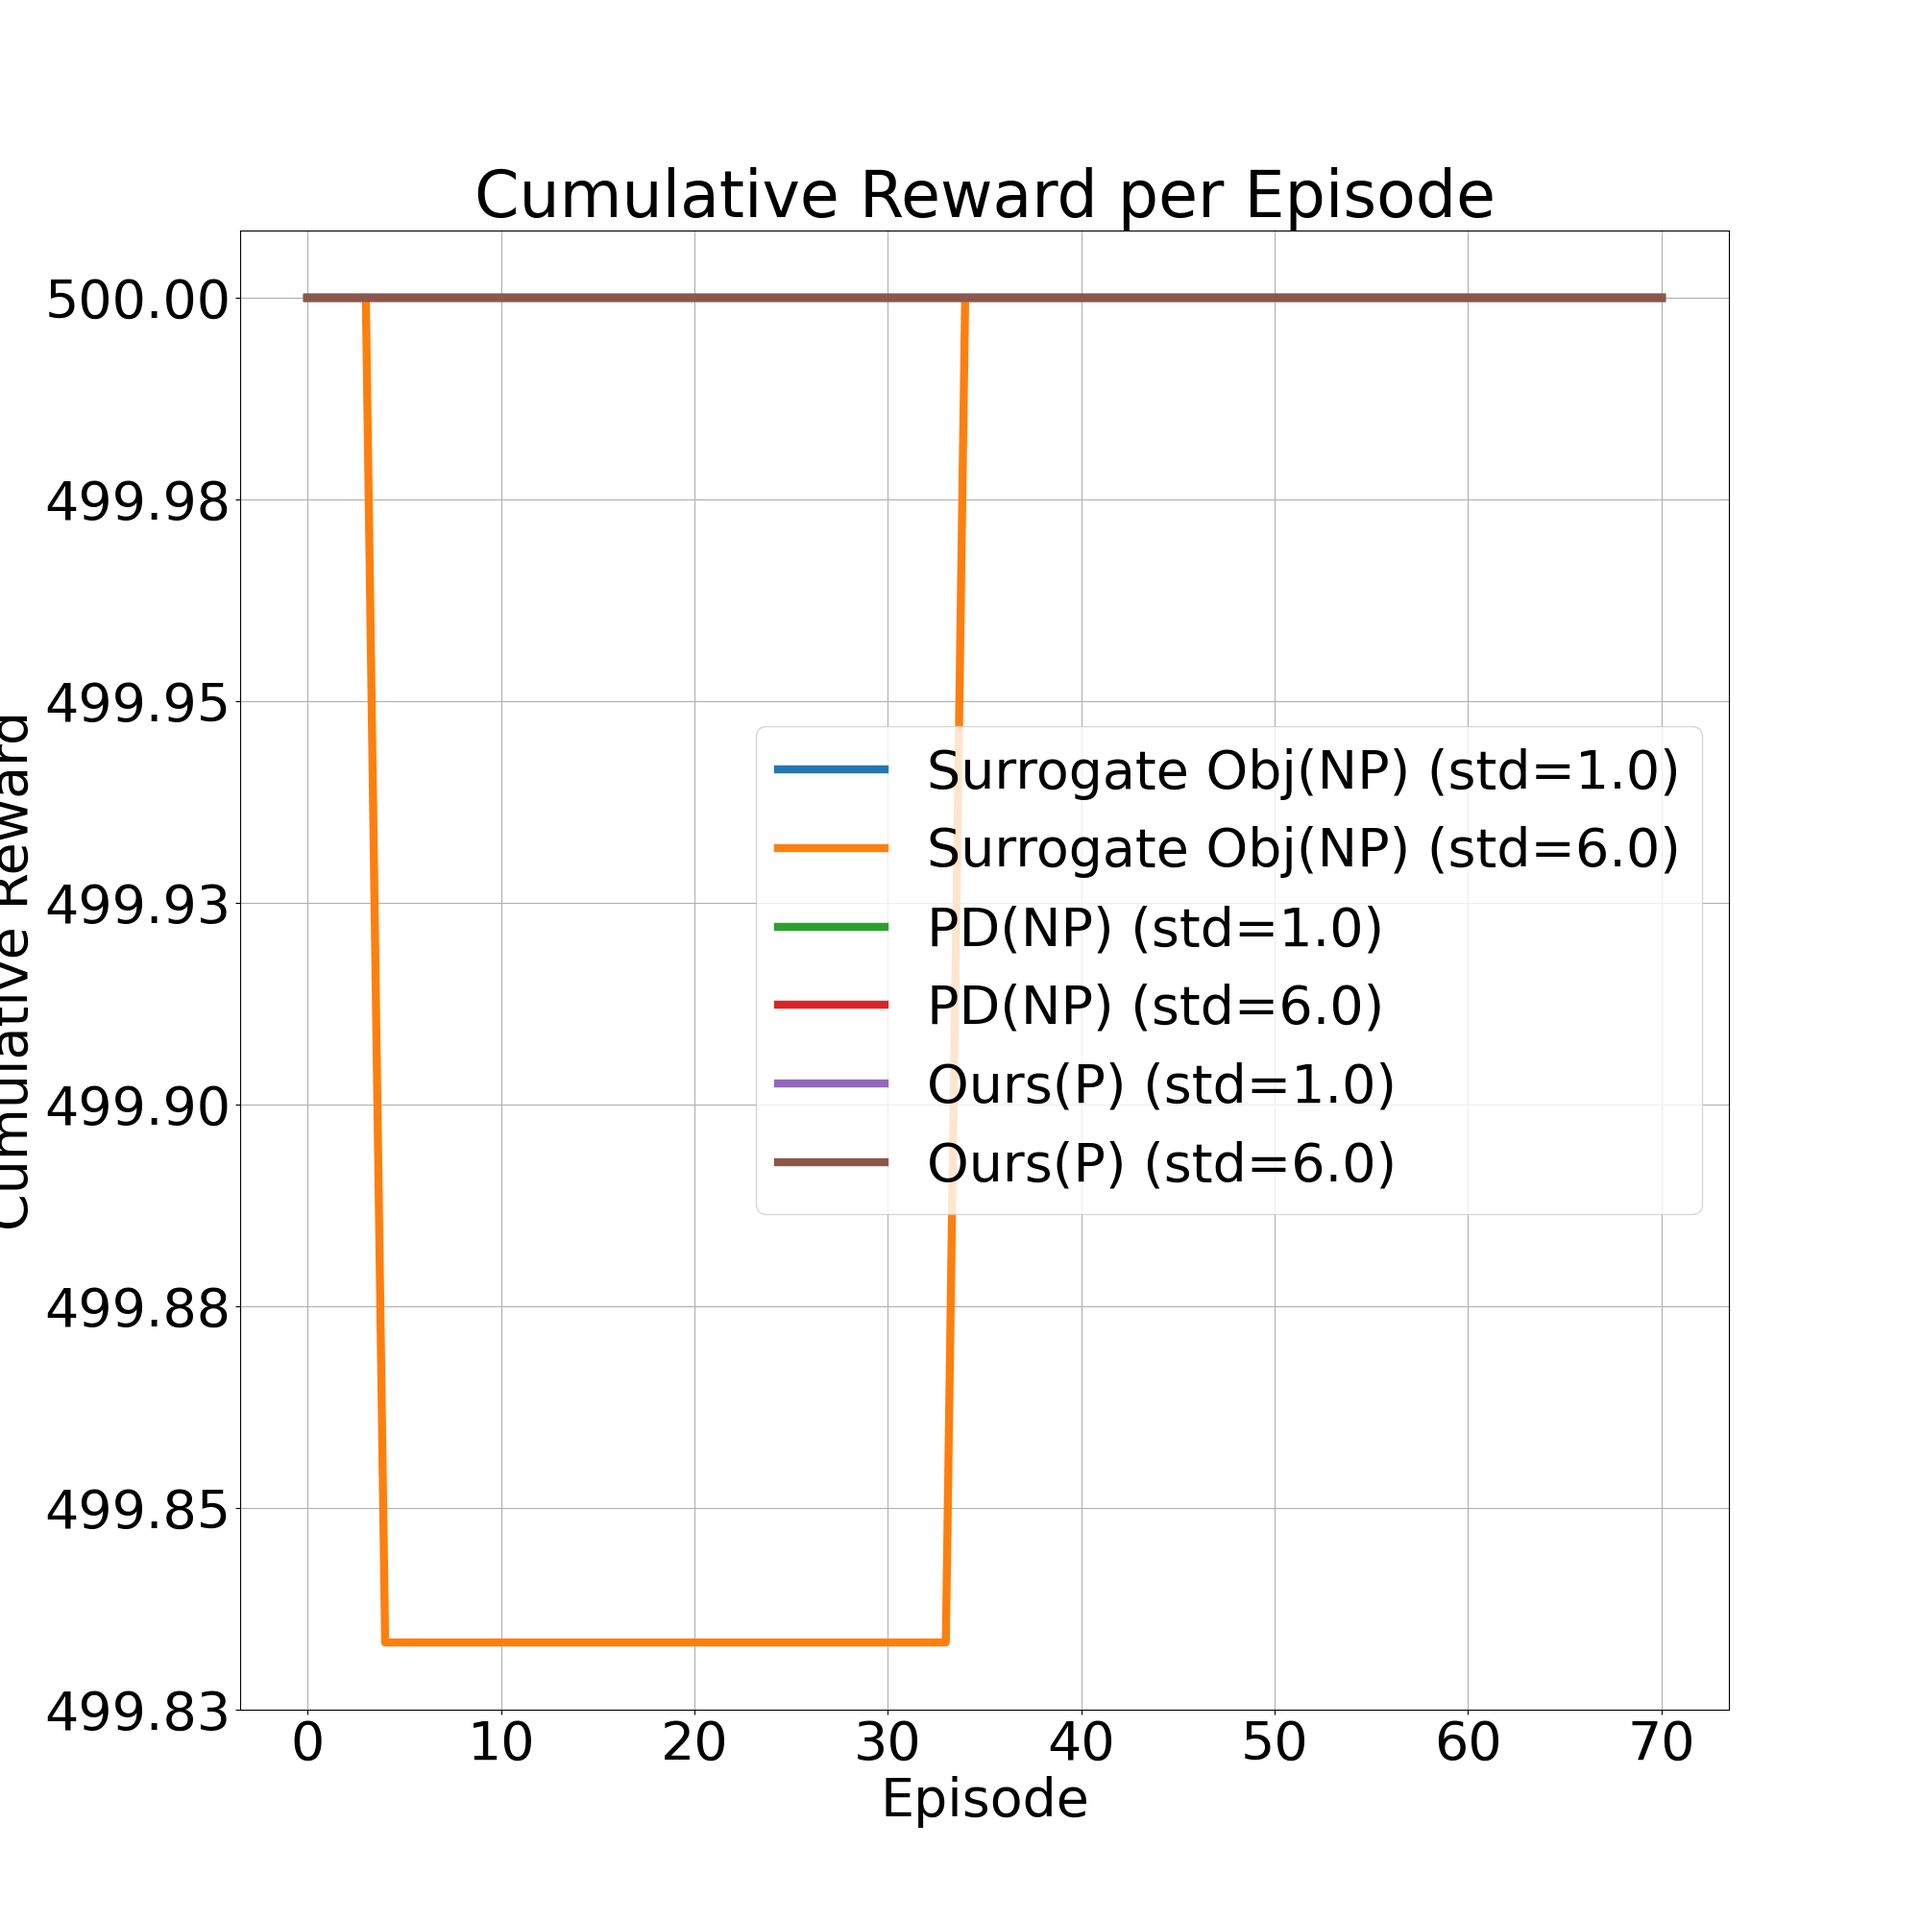
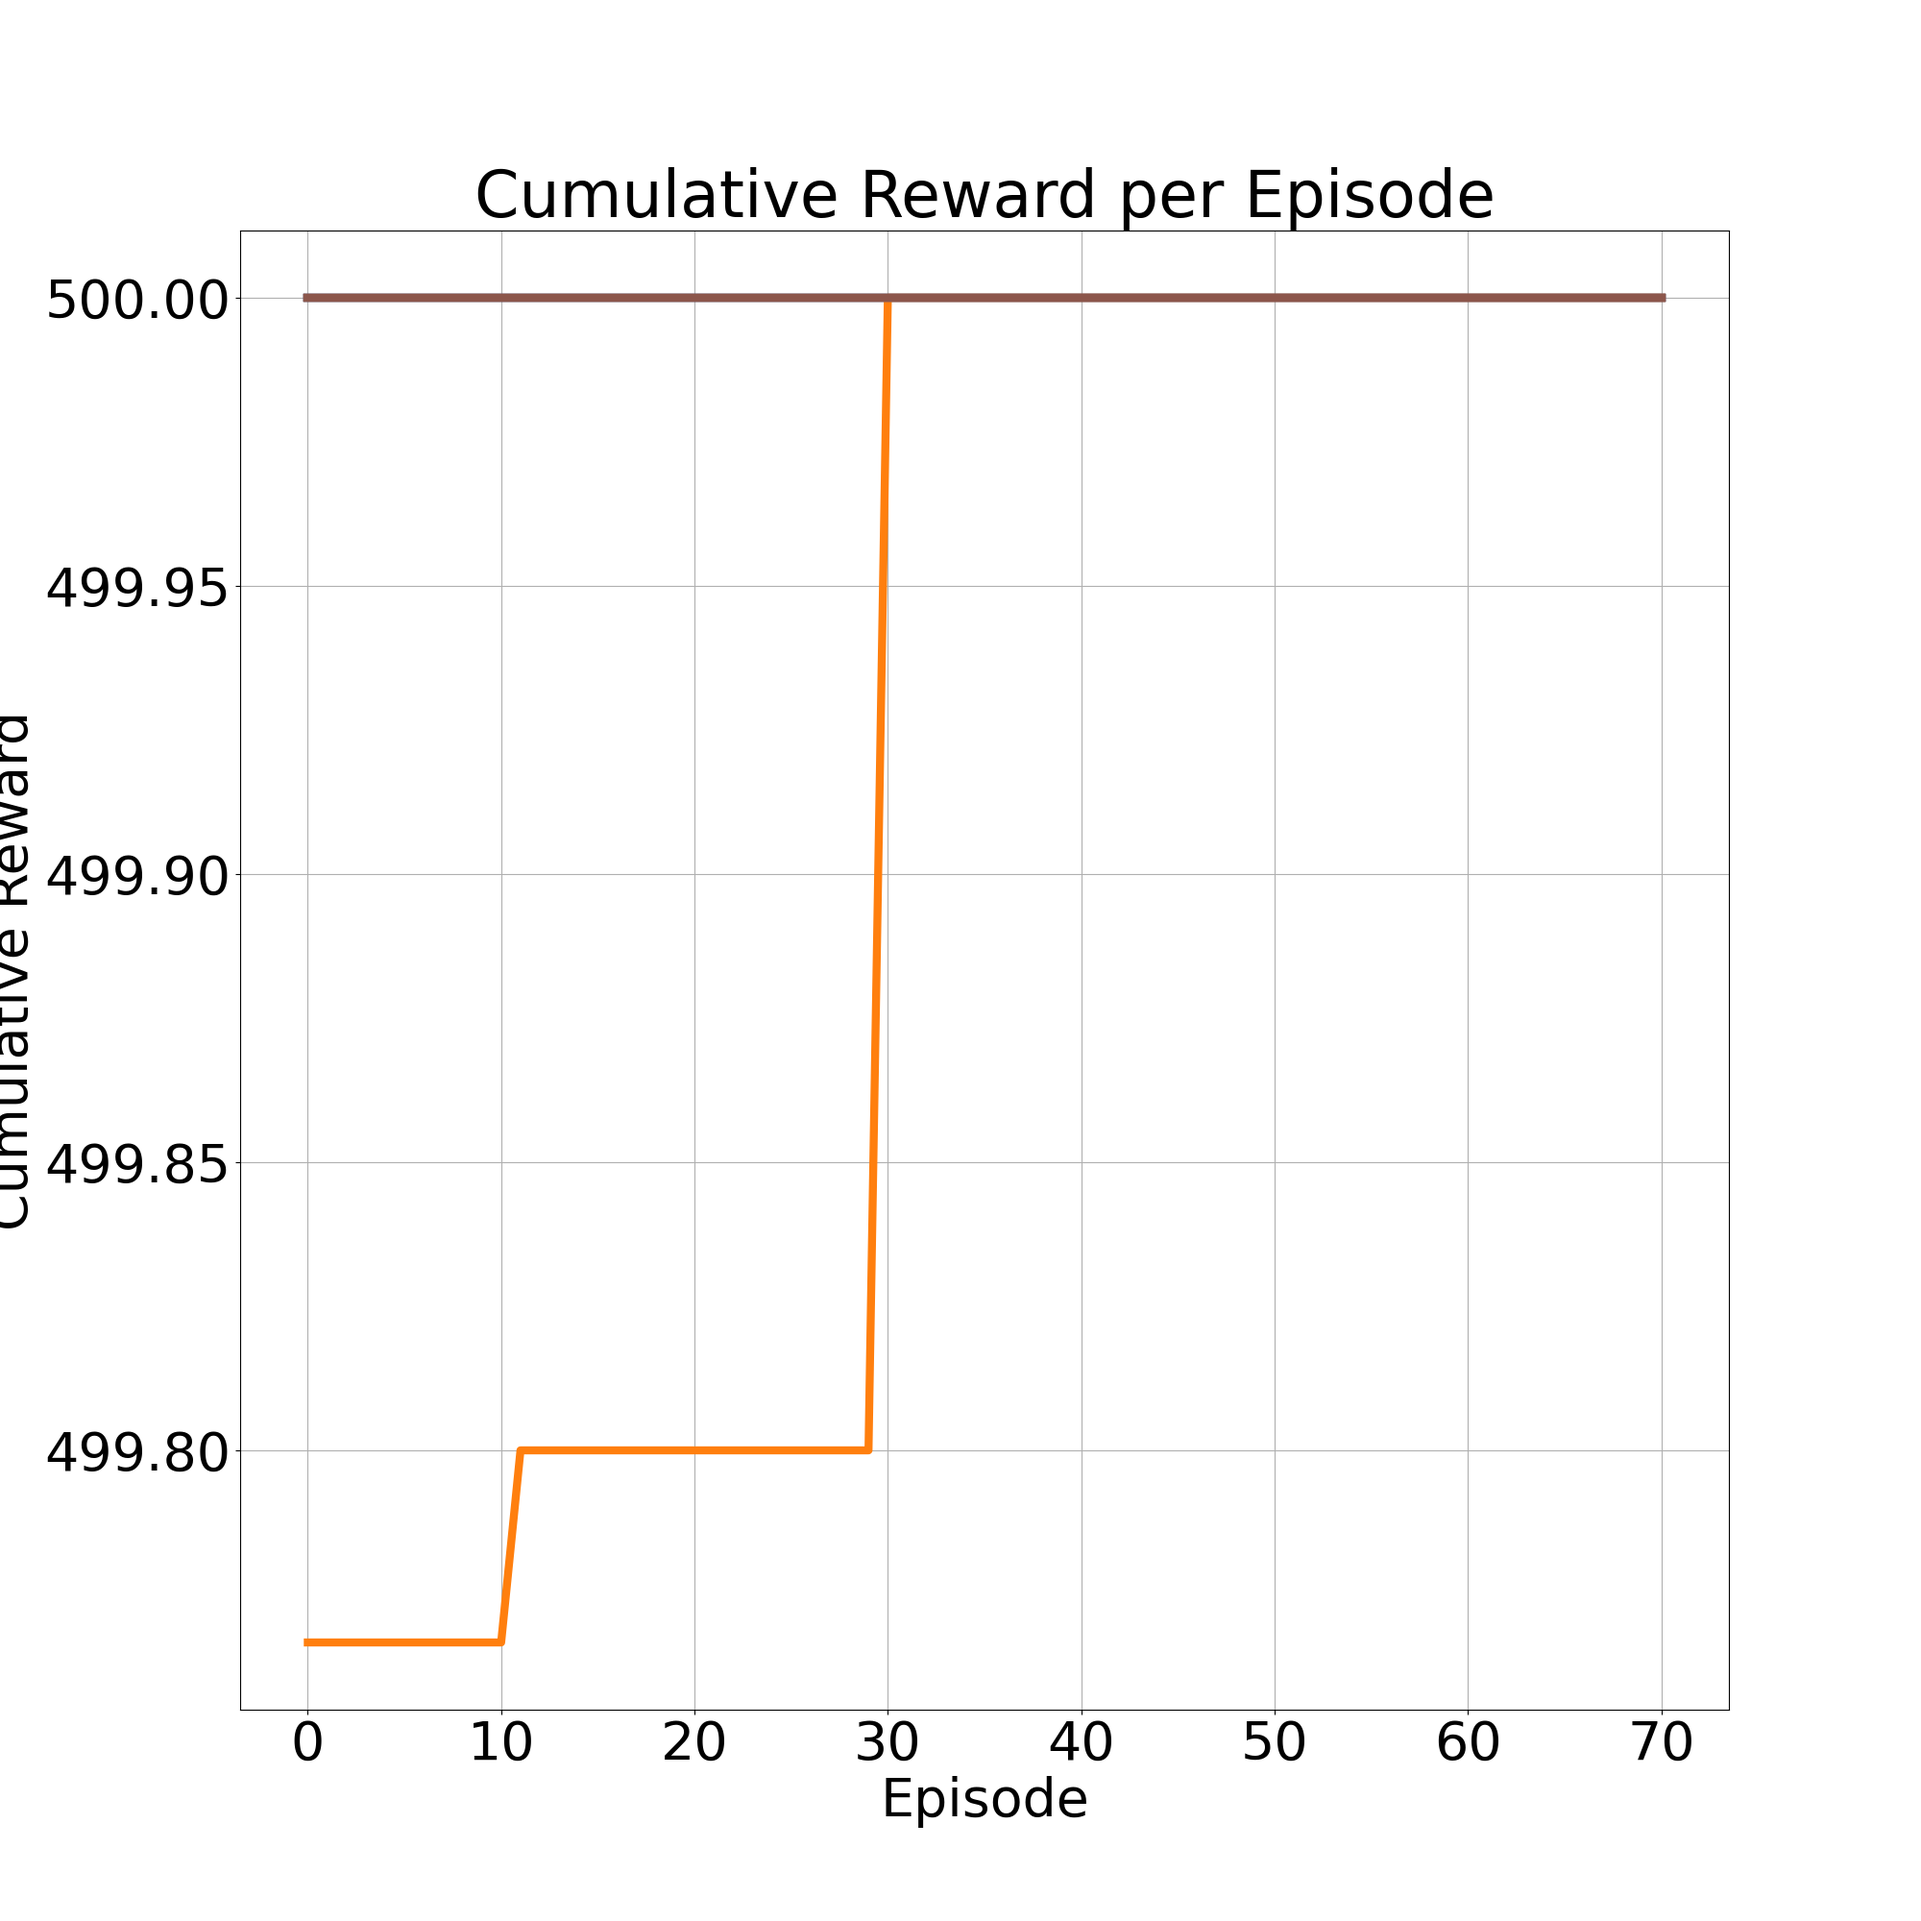
results

diff --git a/code_evaluate_ipm_rcmdp_rcrl_pert.py b/code_evaluate_ipm_rcmdp_rcrl_pert.py
@@ -152,158 +152,6 @@ def test_multiple_dirs(args, save_paths, gravity_perturbation_stds, num_episodes
     return results
 
 
-
-def plot_evaluation1(data, labels, save=False, base_filename="evaluation_plot", smooth_window=10):
-    """
-    Plot raw and smoothed evaluation metrics from multiple directories.
-
-    Args:
-        data: A list of dictionaries, each containing 'rewards', 'costs', and 'max_costs'.
-        labels: A list of labels corresponding to each dataset.
-        save: Whether to save the plots to files.
-        base_filename: Base file name to save the plots.
-        smooth_window: Window size for smoothing.
-    """
-    assert len(data) == len(labels), "Data and labels must have the same length"
-
-    # Set global font size
-    # plt.rcParams.update({'font.size': 25})
-    plt.rcParams.update({'font.size': 100, 'lines.linewidth': 15})
-    fig_size = 30
-
-    # Plot total rewards
-    plt.figure(figsize=(fig_size, fig_size))  # Adjust aspect ratio for square plots
-    for dataset, label in zip(data, labels):
-        rewards = np.array(dataset['rewards'])
-        smoothed_rewards = smooth(rewards, smooth_window)
-        smoothed_x = range(len(smoothed_rewards))
-
-        # Plot smoothed rewards
-        plt.plot(smoothed_x, smoothed_rewards, label=f"{label}")
-    # plt.axhline(y=0, color='gray', linestyle='--', linewidth=1)  # Optional: Add a baseline at y=0
-    plt.xlabel("Episode")
-    plt.ylabel("Cumulative Reward")
-    # plt.title("Total Reward per Episode")
-    plt.title("Trained in Non-Perturbed Env")
-    plt.legend()
-    plt.grid(True)
-
-    if save:
-        plt.savefig(f"{base_filename}_rewards.png")
-    plt.close()
-
-    # Plot max costs
-    plt.figure(figsize=(fig_size+4, fig_size))  # Adjust aspect ratio for square plots
-
-    # Determine the maximum y-value among all max_costs
-    max_y_value = max(max(dataset['max_costs']) for dataset in data)
-    y_limit = max(2.5, max_y_value * 1.1)  # Ensure y-limit is at least 2.5
-
-    # Set y-axis limits explicitly
-    plt.ylim(-1, y_limit)
-
-    # Add light red background above the threshold and light blue below
-    plt.axhspan(2.0, y_limit, color='red', alpha=0.1)
-    plt.axhspan(-1, 2.0, color='blue', alpha=0.1)
-
-    for dataset, label in zip(data, labels):
-        max_costs = np.array(dataset['max_costs'])
-        smoothed_max_costs = smooth(max_costs, smooth_window)
-        smoothed_x = range(len(smoothed_max_costs))
-
-        # Plot smoothed max costs
-        plt.plot(smoothed_x, smoothed_max_costs, label=f"{label}")
-
-    # Always plot the threshold line at y=2.0
-    plt.axhline(y=2.0, color='black', linestyle='--', label="Baseline")
-
-    plt.xlabel("Episode")
-    plt.ylabel("Peak Cost")
-    ax = plt.gca()  # Get the current axis
-    ax.yaxis.set_label_coords(-0.1, 0.5)  # Adjust the y-axis label position
-    # plt.title("Trained in Non-Perturbed Env")
-    plt.legend()
-    plt.grid(True)
-
-    if save:
-        plt.savefig(f"{base_filename}_max_costs.png")
-    plt.close()
-
-
-    # Plot total costs
-    plt.figure(figsize=(fig_size, fig_size))  # Adjust aspect ratio for square plots
-    for dataset, label in zip(data, labels):
-        costs = np.array(dataset['costs'])
-        smoothed_costs = smooth(costs, smooth_window)
-        smoothed_x = range(len(smoothed_costs))
-
-        # Plot smoothed total costs
-        plt.plot(smoothed_x, smoothed_costs, label=f"{label}")
-    plt.xlabel("Episode")
-    plt.ylabel("Cumulative Cost")
-    # plt.title("Total Cost per Episode")
-    plt.legend()
-    plt.grid(True)
-
-    if save:
-        plt.savefig(f"{base_filename}_total_costs.png")
-    plt.close()
-
-def plot_evaluation2(data, labels, save=False, base_filename="evaluation_plot", smooth_window=10):
-    plt.rcParams.update({'font.size': 85, 'lines.linewidth': 7})
-    fig_size = 28
-
-    # Plot total rewards
-    plt.figure(figsize=(fig_size, fig_size))
-    for dataset, label in zip(data, labels):
-        rewards = np.array(dataset['rewards'])
-        smoothed_rewards = smooth(rewards, smooth_window)
-        smoothed_x = range(len(smoothed_rewards))
-        plt.plot(smoothed_x, smoothed_rewards, label=f"{label}")
-    plt.xlabel("Episode")
-    plt.ylabel("Cumulative Reward")
-    plt.title("Cumulative Reward per Episode")
-    plt.legend()
-    plt.grid(True)
-
-    if save:
-        plt.savefig(f"{base_filename}_rewards.png")
-    plt.close()
-
-    # Plot max costs
-    plt.figure(figsize=(fig_size, fig_size))
-    for dataset, label in zip(data, labels):
-        max_costs = np.array(dataset['max_costs'])
-        smoothed_max_costs = smooth(max_costs, smooth_window)
-        smoothed_x = range(len(smoothed_max_costs))
-        plt.plot(smoothed_x, smoothed_max_costs, label=f"{label}")
-    plt.xlabel("Episode")
-    plt.ylabel("Max Cost")
-    plt.title("Max Cost per Episode")
-    plt.legend()
-    plt.grid(True)
-
-    if save:
-        plt.savefig(f"{base_filename}_max_costs.png")
-    plt.close()
-
-    # Plot total costs
-    plt.figure(figsize=(fig_size, fig_size))
-    for dataset, label in zip(data, labels):
-        costs = np.array(dataset['costs'])
-        smoothed_costs = smooth(costs, smooth_window)
-        smoothed_x = range(len(smoothed_costs))
-        plt.plot(smoothed_x, smoothed_costs, label=f"{label}")
-    plt.xlabel("Episode")
-    plt.ylabel("Cumulative Cost")
-    plt.title("Cumulative Cost per Episode")
-    plt.legend()
-    plt.grid(True)
-
-    if save:
-        plt.savefig(f"{base_filename}_total_costs.png")
-    plt.close()
-
 def plot_evaluation(results, save_paths, gravity_perturbation_stds, labels, save=False, base_filename="evaluation_plot", smooth_window=10):
     """
     Plot evaluation results for multiple models across gravity perturbation std values.
@@ -322,6 +170,7 @@ def plot_evaluation(results, save_paths, gravity_perturbation_stds, labels, save
 
     # Prepare legend elements
     legend_elements = []
+    legend_labels = []
 
     # Plot total rewards
     plt.figure(figsize=(fig_size, fig_size))
@@ -330,12 +179,12 @@ def plot_evaluation(results, save_paths, gravity_perturbation_stds, labels, save
             rewards = np.array(results[save_path][i]['rewards'])
             smoothed_rewards = smooth(rewards, smooth_window)
             smoothed_x = range(len(smoothed_rewards))
-            line, = plt.plot(smoothed_x, smoothed_rewards, label=f"{label} (std={std})")
+            line, = plt.plot(smoothed_x, smoothed_rewards)
             legend_elements.append(line)
+            legend_labels.append(f"{label} (std={std})")
     plt.xlabel("Episode")
     plt.ylabel("Cumulative Reward")
     plt.title("Cumulative Reward per Episode")
-    plt.legend()
     plt.grid(True)
 
     # Adjust y-axis ticks for better readability
@@ -346,8 +195,8 @@ def plot_evaluation(results, save_paths, gravity_perturbation_stds, labels, save
     plt.close()
 
     # Save horizontal and vertical legends for rewards plot
-    save_legend(legend_elements, labels, f"{base_filename}_rewards_legend_horizontal.png", horizontal=True)
-    save_legend(legend_elements, labels, f"{base_filename}_rewards_legend_vertical.png", horizontal=False)
+    save_legend(legend_elements, legend_labels, f"{base_filename}_rewards_legend_horizontal.png", horizontal=True)
+    save_legend(legend_elements, legend_labels, f"{base_filename}_rewards_legend_vertical.png", horizontal=False)
 
     # Plot max costs
     plt.figure(figsize=(fig_size, fig_size))
@@ -356,8 +205,9 @@ def plot_evaluation(results, save_paths, gravity_perturbation_stds, labels, save
             max_costs = np.array(results[save_path][i]['max_costs'])
             smoothed_max_costs = smooth(max_costs, smooth_window)
             smoothed_x = range(len(smoothed_max_costs))
-            line, = plt.plot(smoothed_x, smoothed_max_costs, label=f"{label} (std={std})")
+            line, = plt.plot(smoothed_x, smoothed_max_costs)
             legend_elements.append(line)
+            legend_labels.append(f"{label} (std={std})")
 
     # Add dashed baseline and shaded regions
     y_limit = plt.gca().get_ylim()[1]  # Get current y-axis upper limit
@@ -368,7 +218,6 @@ def plot_evaluation(results, save_paths, gravity_perturbation_stds, labels, save
     plt.xlabel("Episode")
     plt.ylabel("Max Cost")
     plt.title("Max Cost per Episode")
-    plt.legend()
     plt.grid(True)
 
     if save:
@@ -376,8 +225,8 @@ def plot_evaluation(results, save_paths, gravity_perturbation_stds, labels, save
     plt.close()
 
     # Save horizontal and vertical legends for max costs plot
-    save_legend(legend_elements, labels, f"{base_filename}_max_costs_legend_horizontal.png", horizontal=True)
-    save_legend(legend_elements, labels, f"{base_filename}_max_costs_legend_vertical.png", horizontal=False)
+    save_legend(legend_elements, legend_labels, f"{base_filename}_max_costs_legend_horizontal.png", horizontal=True)
+    save_legend(legend_elements, legend_labels, f"{base_filename}_max_costs_legend_vertical.png", horizontal=False)
 
     # Plot total costs
     plt.figure(figsize=(fig_size, fig_size))
@@ -386,12 +235,12 @@ def plot_evaluation(results, save_paths, gravity_perturbation_stds, labels, save
             costs = np.array(results[save_path][i]['costs'])
             smoothed_costs = smooth(costs, smooth_window)
             smoothed_x = range(len(smoothed_costs))
-            line, = plt.plot(smoothed_x, smoothed_costs, label=f"{label} (std={std})")
+            line, = plt.plot(smoothed_x, smoothed_costs)
             legend_elements.append(line)
+            legend_labels.append(f"{label} (std={std})")
     plt.xlabel("Episode")
     plt.ylabel("Cumulative Cost")
     plt.title("Cumulative Cost per Episode")
-    plt.legend()
     plt.grid(True)
 
     if save:
@@ -399,8 +248,8 @@ def plot_evaluation(results, save_paths, gravity_perturbation_stds, labels, save
     plt.close()
 
     # Save horizontal and vertical legends for total costs plot
-    save_legend(legend_elements, labels, f"{base_filename}_total_costs_legend_horizontal.png", horizontal=True)
-    save_legend(legend_elements, labels, f"{base_filename}_total_costs_legend_vertical.png", horizontal=False)
+    save_legend(legend_elements, legend_labels, f"{base_filename}_total_costs_legend_horizontal.png", horizontal=True)
+    save_legend(legend_elements, legend_labels, f"{base_filename}_total_costs_legend_vertical.png", horizontal=False)
 
 
 def save_legend(legend_elements, labels, filename, horizontal=True):
@@ -419,43 +268,6 @@ def save_legend(legend_elements, labels, filename, horizontal=True):
     legend = ax.legend(handles=legend_elements, labels=labels, loc='center', ncol=len(legend_elements) if horizontal else 1, frameon=False)
     plt.savefig(filename, bbox_inches="tight", pad_inches=0)
     plt.close()
-
-
-# Function to run the environment with different gravity perturbation std values
-def run_and_plot_comparison(args, save_path, gravity_perturbation_stds, num_episodes=100):
-    """
-    Run the CartPole environment with different gravity perturbation standard deviations
-    and plot the results for comparison.
-
-    Args:
-        args: Argument parser with required parameters.
-        save_path: Path to the saved agent.
-        gravity_perturbation_stds: List of gravity perturbation std values to test.
-        num_episodes: Number of episodes to test.
-    """
-    results = []
-    labels = []
-
-    for std in gravity_perturbation_stds:
-        print(f"Running simulation with gravity_perturbation_std = {std}")
-        
-        # Create a new environment instance with the specified gravity perturbation std
-        env = CartPolePerturbedEnv(gravity_perturbation_std=std)
-        env.reset(seed=args.seed)
-        env.action_space.seed(args.seed)
-
-        args.max_action = float(env.action_space.high[0])
-        args.state_dim = env.observation_space.shape[0]
-        args.action_dim = env.action_space.shape[0]
-        
-        agent, state_norm, reward_scaling = load_agent(args, save_path)
-        rewards, costs, max_costs = test_agent(agent, env, num_episodes, state_norm)
-        results.append({'rewards': rewards, 'costs': costs, 'max_costs': max_costs})
-        labels.append(f"Gravity Perturbation Std = {std}")
-
-    # Plot the evaluation results
-    plot_evaluation(results, labels, save=True, base_filename="plot_inference/gravity_comparison", smooth_window=10)
-
 
 
 if __name__ == "__main__":
